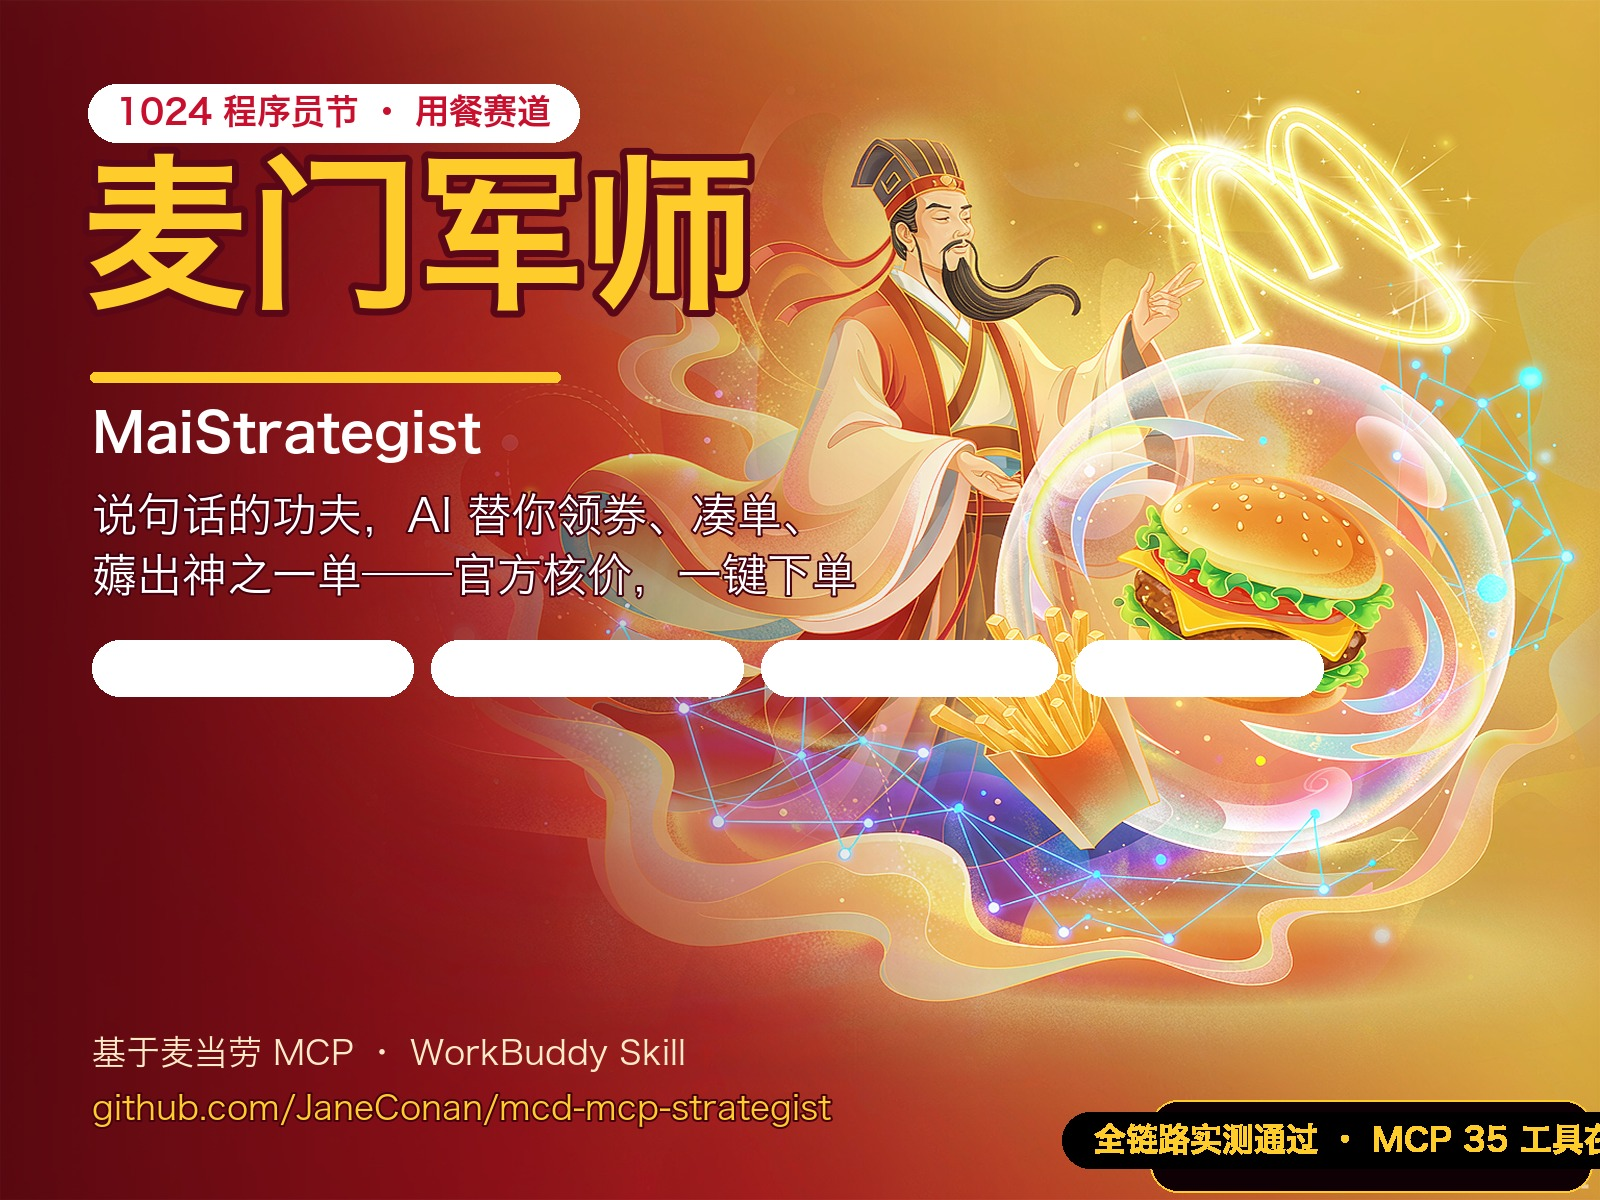
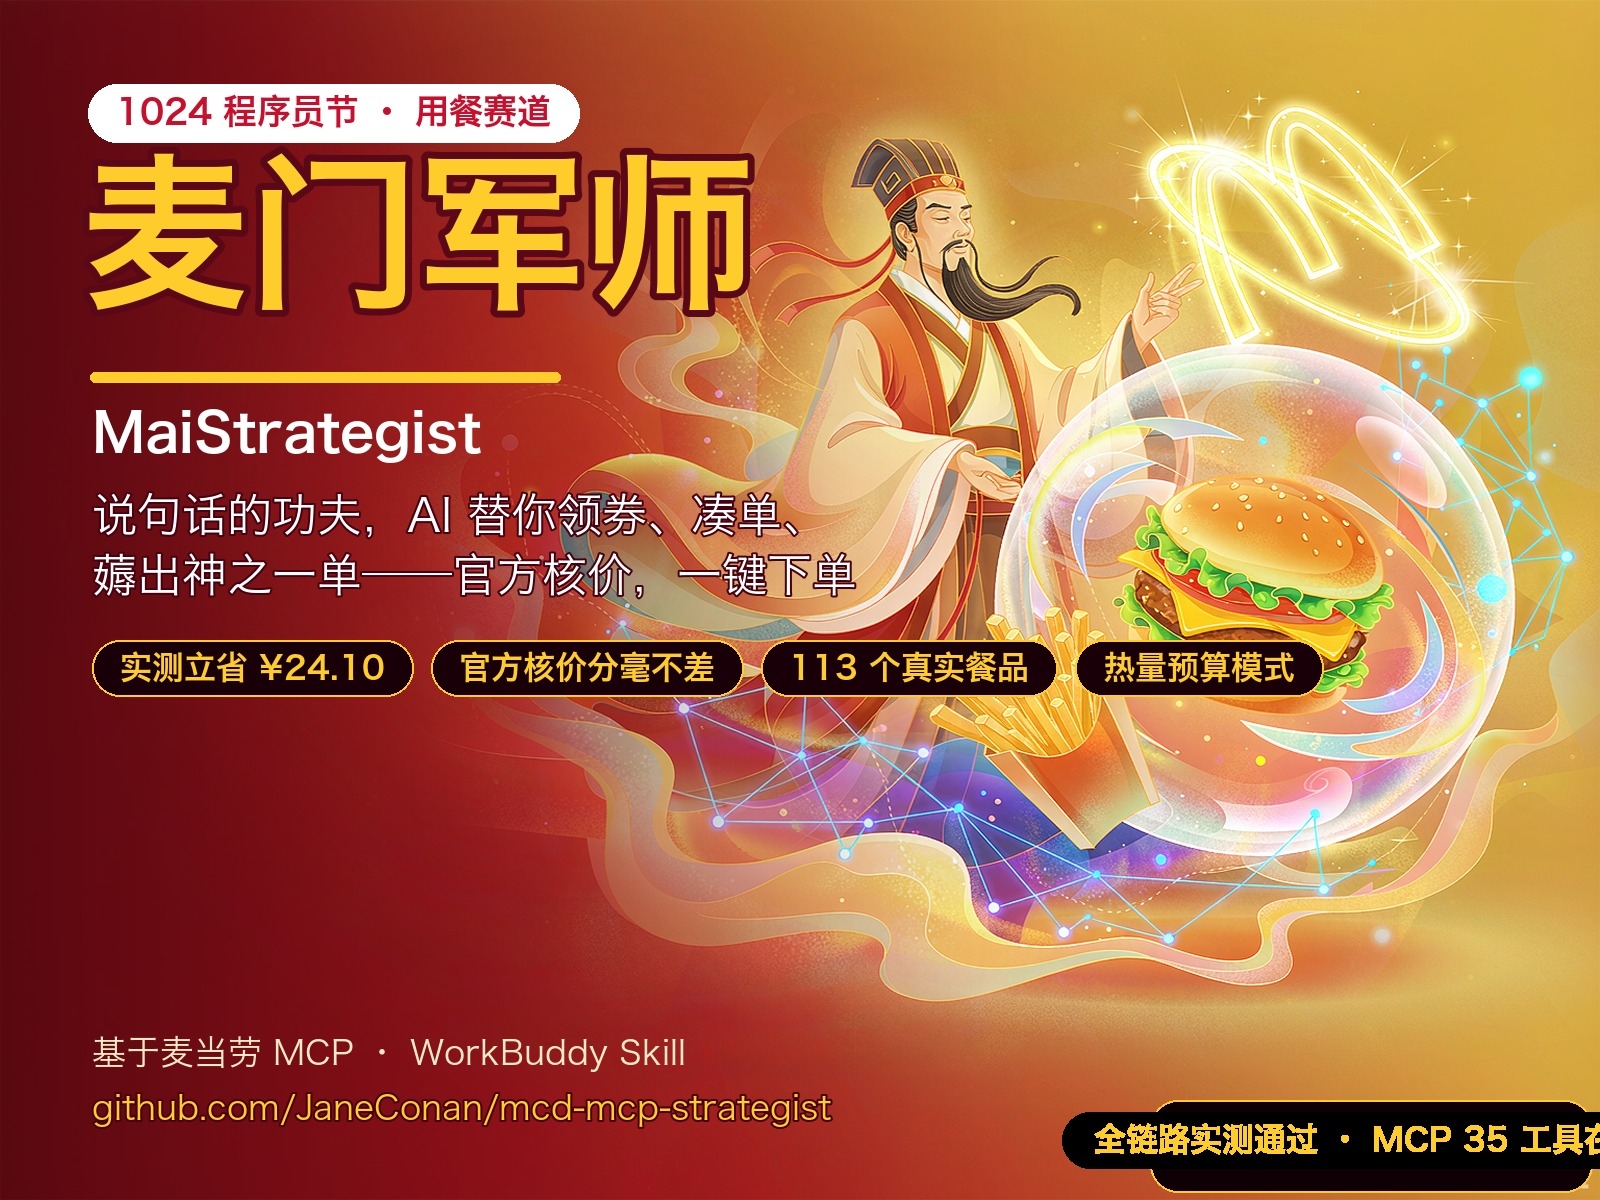
fix: 封面战绩胶囊改为深色底金字(修复白底白字不可读)

Changed region(s): [[0.0625, 0.5242, 0.8438, 0.5858]]

diff --git a/scripts/make_cover.py b/scripts/make_cover.py
@@ -95,12 +95,13 @@ def main():
     draw_text(d, (92, 552), "薅出神之一单——官方核价，一键下单", f_tag, WHITE,
               stroke=2, stroke_fill=(70, 0, 14))
 
-    # ---- 战绩胶囊 ----
+    # ---- 战绩胶囊（深色底 + 金字，保证可读） ----
     f_pill = font(32, bold=True)
     x = 92
     y = 640
     for t in ["实测立省 ¥24.10", "官方核价分毫不差", "113 个真实餐品", "热量预算模式"]:
-        x, _ = pill(d, x, y, t, f_pill)
+        x, _ = pill(d, x, y, t, f_pill, bg=(25, 0, 8, 175),
+                    outline=(255, 205, 43, 130), fill=GOLD)
         x += 18
 
     # ---- 左下角信息 ----
